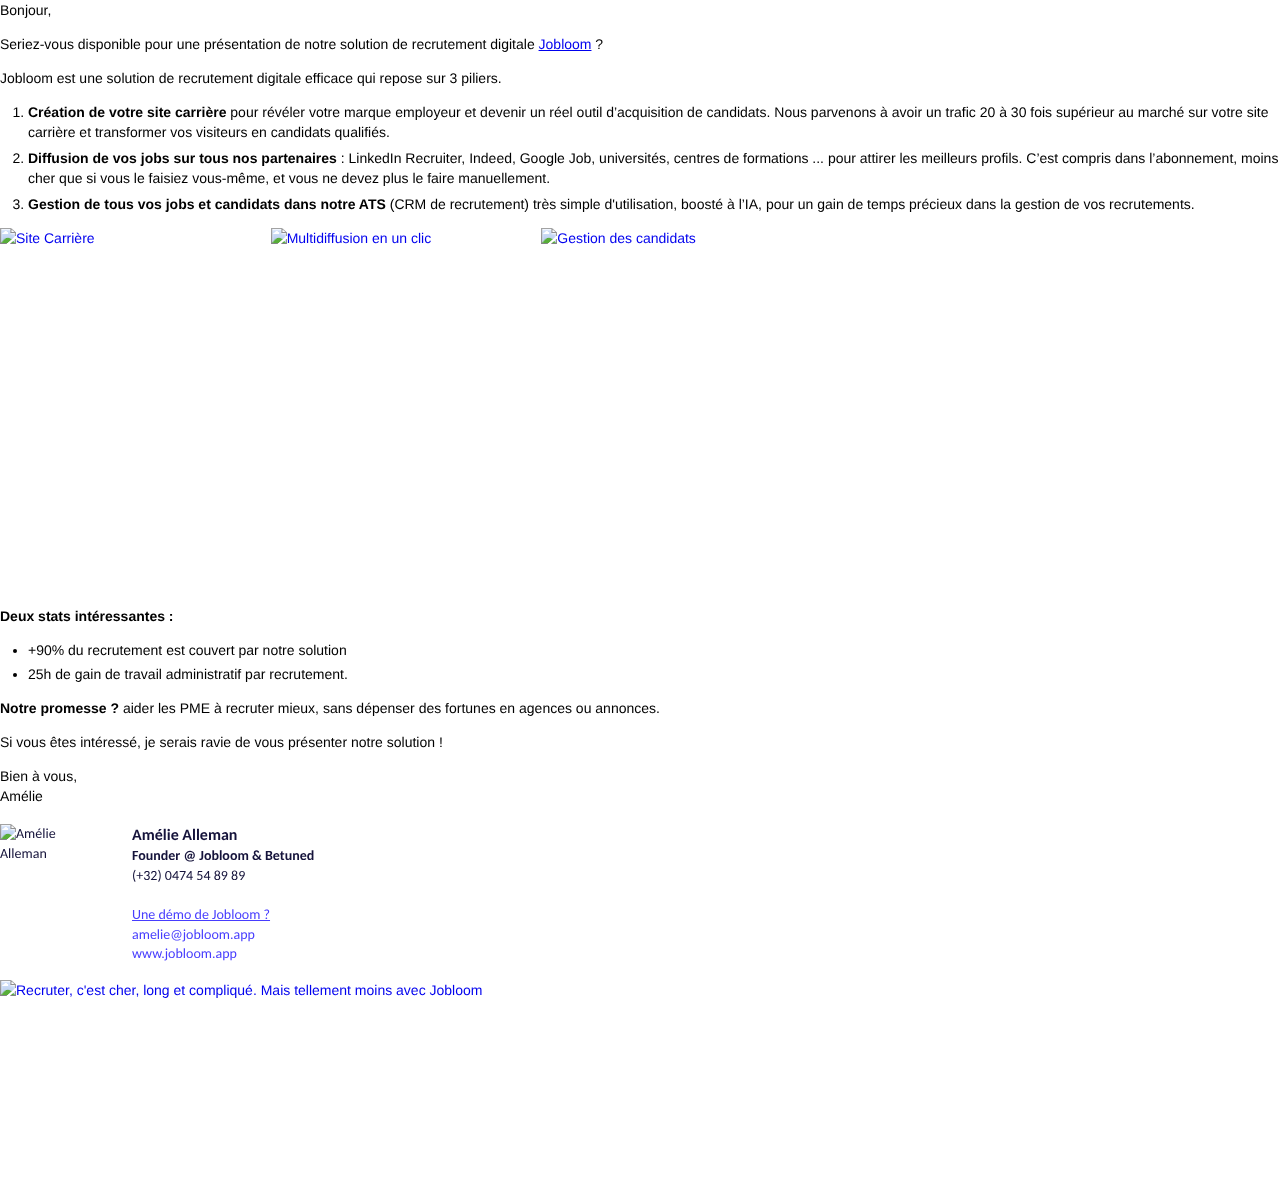
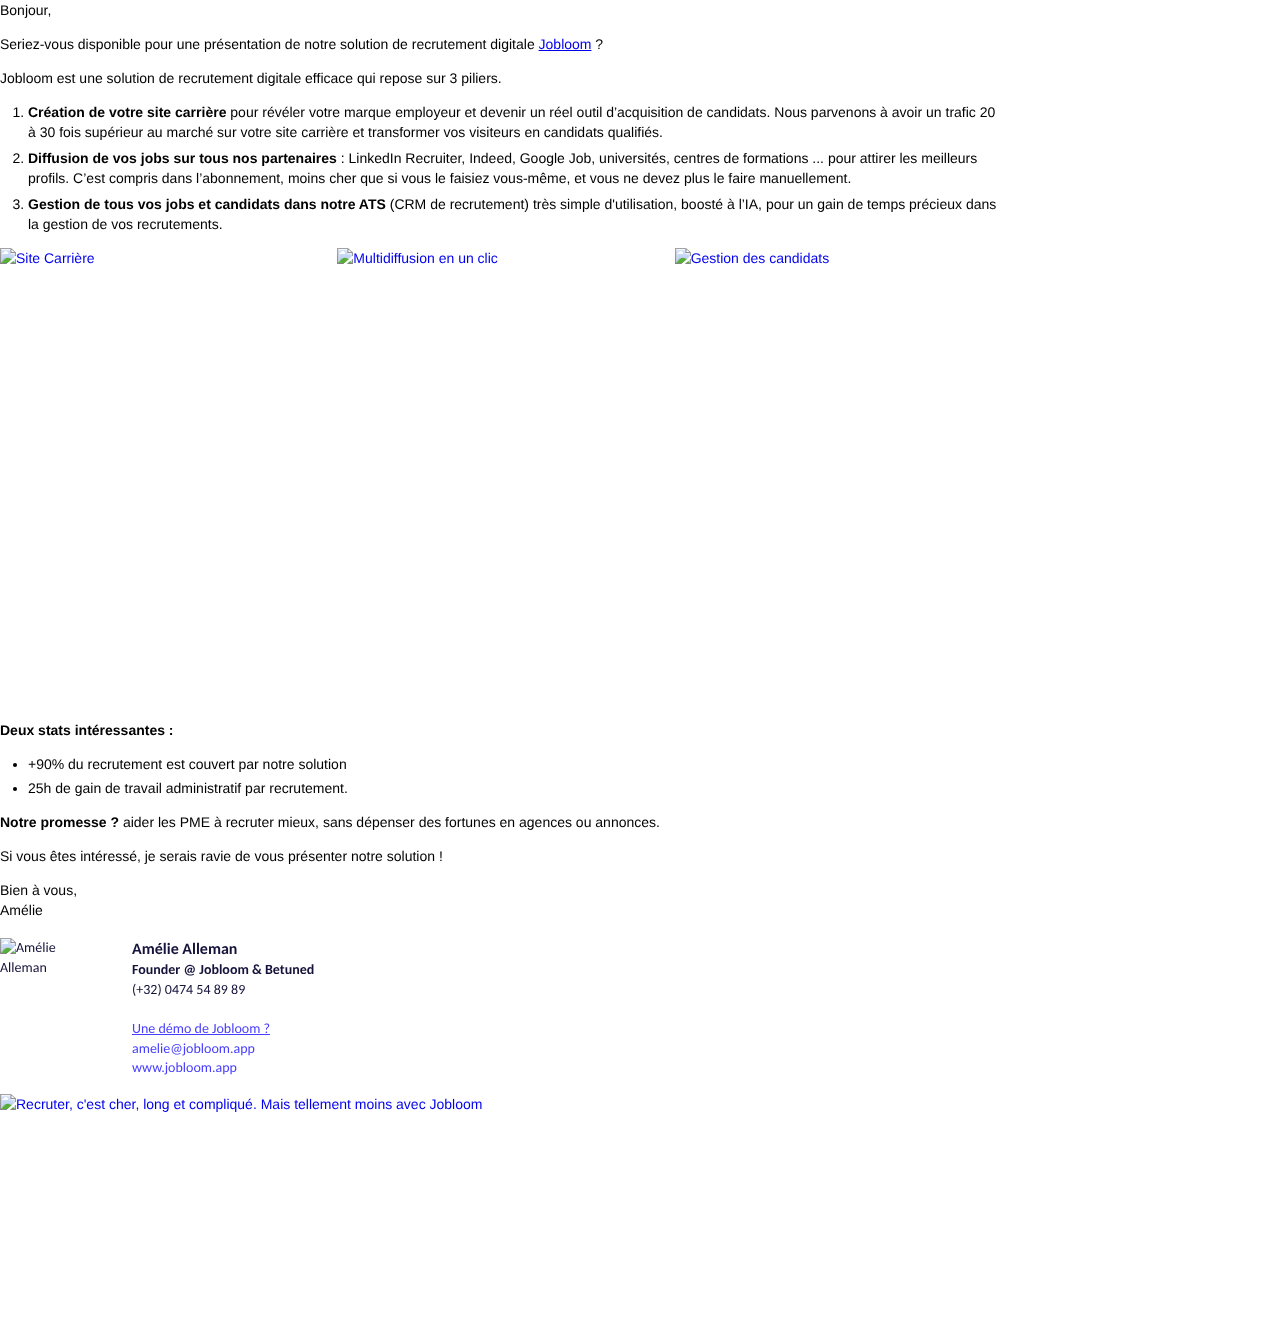
Email Amélie : colonne unique de 1000 px, images à la largeur du texte
Claude-Session: https://claude.ai/code/session_01XTeiUwKp5X2MxE8FSKHjU9

Changed region(s): [[0.0, 0.0, 1.0, 0.2136], [0.0, 0.5186, 0.5, 0.7322], [0.0, 0.7017, 0.375, 0.8542]]

diff --git a/email-livrable/email_1st_Amelie_final.html b/email-livrable/email_1st_Amelie_final.html
@@ -29,7 +29,7 @@ li{margin-left:0 !important;}</style>
 <table role="presentation" cellpadding="0" cellspacing="0" border="0" width="100%" style="border-collapse:collapse;width:100%">
 <tr><td class="wrap" align="left" style="padding:0">
 <!--[if mso]><table role="presentation" width="800" cellpadding="0" cellspacing="0" border="0"><tr><td><![endif]-->
-<div class="txt" style="width:100%;font-family:Arial,Helvetica,sans-serif;font-size:14px;line-height:20px;mso-line-height-rule:exactly;color:#000000">
+<div class="txt" style="width:100%;max-width:1000px;font-family:Arial,Helvetica,sans-serif;font-size:14px;line-height:20px;mso-line-height-rule:exactly;color:#000000">
 
 <p style="margin:0 0 14px 0">Bonjour,</p>
 <p style="margin:0 0 14px 0">Seriez-vous disponible pour une présentation de notre solution de recrutement digitale <a href="https://www.jobloom.be/">Jobloom</a>&nbsp;?</p>
@@ -39,7 +39,7 @@ li{margin-left:0 !important;}</style>
 <li style="margin:0 0 6px 0"><b>Diffusion de vos jobs sur tous nos partenaires&nbsp;</b>: LinkedIn Recruiter, Indeed, Google Job, universités, centres de formations ... pour attirer les meilleurs profils. C’est compris dans l’abonnement, moins cher que si vous le faisiez vous-même, et vous ne devez plus le faire manuellement.</li>
 <li style="margin:0"><b>Gestion de tous vos jobs et candidats dans notre ATS</b> (CRM de recrutement) très simple d'utilisation, boosté à l’IA, pour un gain de temps précieux dans la gestion de vos recrutements.</li>
 </ol>
-<table role="presentation" class="cards" cellpadding="0" cellspacing="0" border="0" width="100%" style="border-collapse:collapse;width:100%;max-width:800px;margin:4px 0 18px 0"><tr><td class="cardtd" width="33%" valign="top" style="width:33.33%;padding:0 8px 0 0"><a href="https://www.jobloom.app/" style="text-decoration:none"><!--[if mso]><img src="https://jobloom-landing-pages-massimoharnisfeger-hues-projects.vercel.app/signature/pilier-1.jpg" width="258" height="360" alt="Site Carrière" style="display:block;width:258px;height:360px;border:0"><![endif]--><!--[if !mso]><!--><img src="https://jobloom-landing-pages-massimoharnisfeger-hues-projects.vercel.app/signature/pilier-1.jpg" width="660" height="921" alt="Site Carrière" style="display:block;width:100%;max-width:258px;height:auto;border:0"><!--<![endif]--></a></td><td class="cardtd" width="33%" valign="top" style="width:33.33%;padding:0 4px"><a href="https://www.jobloom.app/" style="text-decoration:none"><!--[if mso]><img src="https://jobloom-landing-pages-massimoharnisfeger-hues-projects.vercel.app/signature/pilier-2.jpg" width="258" height="360" alt="Multidiffusion en un clic" style="display:block;width:258px;height:360px;border:0"><![endif]--><!--[if !mso]><!--><img src="https://jobloom-landing-pages-massimoharnisfeger-hues-projects.vercel.app/signature/pilier-2.jpg" width="660" height="921" alt="Multidiffusion en un clic" style="display:block;width:100%;max-width:258px;height:auto;border:0"><!--<![endif]--></a></td><td class="cardtd" width="33%" valign="top" style="width:33.33%;padding:0 0 0 8px"><a href="https://www.jobloom.app/" style="text-decoration:none"><!--[if mso]><img src="https://jobloom-landing-pages-massimoharnisfeger-hues-projects.vercel.app/signature/pilier-3.jpg" width="258" height="360" alt="Gestion des candidats" style="display:block;width:258px;height:360px;border:0"><![endif]--><!--[if !mso]><!--><img src="https://jobloom-landing-pages-massimoharnisfeger-hues-projects.vercel.app/signature/pilier-3.jpg" width="660" height="921" alt="Gestion des candidats" style="display:block;width:100%;max-width:258px;height:auto;border:0"><!--<![endif]--></a></td></tr></table>
+<table role="presentation" class="cards" cellpadding="0" cellspacing="0" border="0" width="100%" style="border-collapse:collapse;width:100%;margin:4px 0 18px 0"><tr><td class="cardtd" width="33%" valign="top" style="width:33.33%;padding:0 8px 0 0"><a href="https://www.jobloom.app/" style="text-decoration:none"><!--[if mso]><img src="https://jobloom-landing-pages-massimoharnisfeger-hues-projects.vercel.app/signature/pilier-1.jpg" width="258" height="360" alt="Site Carrière" style="display:block;width:258px;height:360px;border:0"><![endif]--><!--[if !mso]><!--><img src="https://jobloom-landing-pages-massimoharnisfeger-hues-projects.vercel.app/signature/pilier-1.jpg" width="660" height="921" alt="Site Carrière" style="display:block;width:100%;max-width:330px;height:auto;border:0"><!--<![endif]--></a></td><td class="cardtd" width="33%" valign="top" style="width:33.33%;padding:0 4px"><a href="https://www.jobloom.app/" style="text-decoration:none"><!--[if mso]><img src="https://jobloom-landing-pages-massimoharnisfeger-hues-projects.vercel.app/signature/pilier-2.jpg" width="258" height="360" alt="Multidiffusion en un clic" style="display:block;width:258px;height:360px;border:0"><![endif]--><!--[if !mso]><!--><img src="https://jobloom-landing-pages-massimoharnisfeger-hues-projects.vercel.app/signature/pilier-2.jpg" width="660" height="921" alt="Multidiffusion en un clic" style="display:block;width:100%;max-width:330px;height:auto;border:0"><!--<![endif]--></a></td><td class="cardtd" width="33%" valign="top" style="width:33.33%;padding:0 0 0 8px"><a href="https://www.jobloom.app/" style="text-decoration:none"><!--[if mso]><img src="https://jobloom-landing-pages-massimoharnisfeger-hues-projects.vercel.app/signature/pilier-3.jpg" width="258" height="360" alt="Gestion des candidats" style="display:block;width:258px;height:360px;border:0"><![endif]--><!--[if !mso]><!--><img src="https://jobloom-landing-pages-massimoharnisfeger-hues-projects.vercel.app/signature/pilier-3.jpg" width="660" height="921" alt="Gestion des candidats" style="display:block;width:100%;max-width:330px;height:auto;border:0"><!--<![endif]--></a></td></tr></table>
 <p style="margin:0 0 14px 0"><b>Deux stats intéressantes&nbsp;:</b></p>
 <ul class="list" style="margin:0 0 14px 0;padding-left:28px">
 <li style="margin:0 0 4px 0">+90% du recrutement est couvert par notre solution</li>
@@ -64,7 +64,7 @@ li{margin-left:0 !important;}</style>
 </table>
 <table role="presentation" cellpadding="0" cellspacing="0" border="0" width="100%" style="border-collapse:collapse;width:100%;margin:16px 0 0 0"><tr><td align="left" style="padding:0"><a href="https://www.jobloom.app/agenda" style="text-decoration:none">
 <!--[if mso]><img src="https://jobloom-landing-pages-massimoharnisfeger-hues-projects.vercel.app/signature/banniere-jobloom.jpg" width="800" height="200" alt="Recruter, c'est cher, long et compliqué. Mais tellement moins avec Jobloom" style="display:block;width:800px;height:200px;border:0"><![endif]-->
-<!--[if !mso]><!--><img src="https://jobloom-landing-pages-massimoharnisfeger-hues-projects.vercel.app/signature/banniere-jobloom.jpg" width="1000" height="250" alt="Recruter, c'est cher, long et compliqué. Mais tellement moins avec Jobloom" style="display:block;width:100%;max-width:800px;height:auto;border:0"><!--<![endif]-->
+<!--[if !mso]><!--><img src="https://jobloom-landing-pages-massimoharnisfeger-hues-projects.vercel.app/signature/banniere-jobloom.jpg" width="1000" height="250" alt="Recruter, c'est cher, long et compliqué. Mais tellement moins avec Jobloom" style="display:block;width:100%;height:auto;border:0"><!--<![endif]-->
 </a></td></tr></table>
 
 </div>

diff --git a/email-livrable/PROMPT_email_responsive.md b/email-livrable/PROMPT_email_responsive.md
@@ -28,11 +28,11 @@ L'email doit arriver dans la boîte principale (pas Promotions, pas spam), se li
 
 4. MISE EN PAGE PC
 - Le mail ressemble à un mail écrit par une personne : fond blanc, texte aligné à gauche, pas de carte centrée façon newsletter.
-- Le contenu fait 100 % de la largeur de la fenêtre de lecture : aucun max-width sur le conteneur principal, aucun vide à droite sur PC.
+- Texte et images partagent une seule colonne de 100 % de largeur, limitée à 1000 px (max-width:1000px) : c'est la largeur de la zone de lecture de Gmail sur un écran classique, donc pas de vide à droite, et les images suivent la largeur du texte sans être agrandies au-delà de 1000 px.
 - Outlook pour Windows ne gère pas les largeurs fluides : pour lui, utilise une table fantôme fixe de 800 px dans <!--[if mso]> ... <![endif]-->.
 
 5. IMAGES NETTES
-- Le texte prend toute la largeur, mais pas les images : chaque image ou groupe d'images est limité à une largeur raisonnable (800 px au total pour une bannière ou une rangée de vignettes), aligné à gauche, comme une photo dans un mail normal. Une image ne s'affiche jamais plus grande que sa taille réelle en pixels.
+- Les images font 100 % de la colonne (une bannière = toute la largeur, une rangée de 3 vignettes = 3 × un tiers), donc leur taille suit celle du texte. Une image ne s'affiche jamais plus grande que sa taille réelle en pixels : une bannière doit faire au moins 1000 px de large, une vignette en 3 colonnes au moins 340 px.
 - Si une image est trop petite pour sa place, ne l'agrandis pas : dis-moi à quelle largeur l'exporter (idéalement le double de sa largeur d'affichage).
 - Chaque image a deux versions :
   - pour Outlook Windows : <!--[if mso]><img width="X" style="width:Xpx;border:0"><![endif]-->, X calculé pour tenir dans 800 px ;
